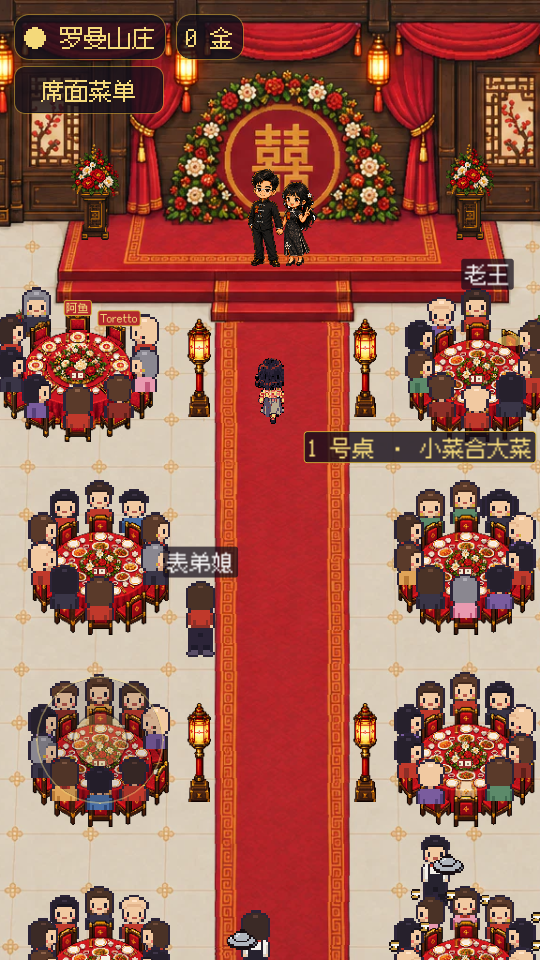
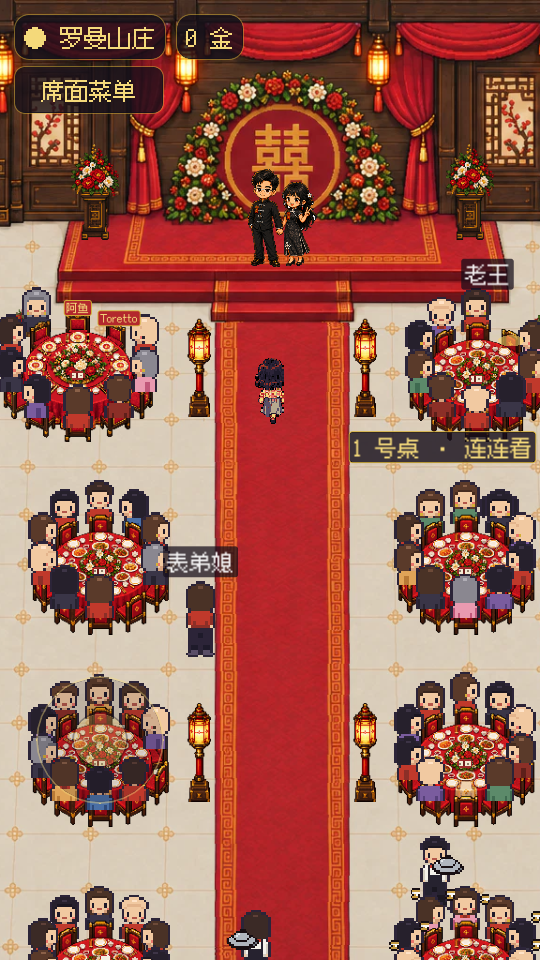
55 桌厅 v8 补：主桌不挂小游戏，54 张普通桌三个游戏各 18 桌；回执补北边 v2 是 v1 原样

diff --git a/godot/tools/layout_55/build_graybox55.py b/godot/tools/layout_55/build_graybox55.py
@@ -430,8 +430,9 @@ def main():
         "rugs": False,        # 桌下不铺地毯（阿鱼 9/28）
         "band_art": False,    # 乐队是底图里的色块，不叠第 44 版那块乐队图
         "sign_mode": "near",  # 认桌（01 定）：自己那桌一直挂牌，走近哪桌亮哪桌，其余不挂
-        # 每桌一个小游戏（01 D 9/30 v8）：55 桌（含主桌）在这三个里分，按北京日期洗，同一天大家一样（game_config.gd daily_plan）
-        "table_games": {"mode": "daily", "games": ["lianliankan", "match3", "g2048"], "tz_hours": 8},
+        # 每桌一个小游戏（01 D 9/30 v8）：54 张普通桌在这三个里分（各 18 桌），按北京日期洗，同一天大家一样（game_config.gd daily_plan）；
+        # 主桌不挂游戏（01 D 9/30：主桌只有阿鱼、Toretto 坐，别人看得到玩不了）
+        "table_games": {"mode": "daily", "games": ["lianliankan", "match3", "g2048"], "skip": ["MAIN"], "tz_hours": 8},
     }
     if art:
         scene["revision"] = "art-v1（GPT 空厅背景 + 5 件零件，摆位 v4）"

diff --git a/godot/回执/55桌v8-回执.md b/godot/回执/55桌v8-回执.md
@@ -25,19 +25,19 @@
 
 ## 3. 每桌一个小游戏
 
-- 55 张桌（含主桌）在连连看、川菜消消乐、小菜合大菜里分：
-  - 三个轮着排满（各 18～19 桌），再按北京日期洗一遍，同一天谁看都一样；
+- 54 张普通桌在连连看、川菜消消乐、小菜合大菜里分，**主桌不挂游戏**（01 D 9/30 定）：
+  - 三个轮着排满（各 18 桌），再按北京日期洗一遍，同一天谁看都一样；
   - 北京日期用 UTC 加 8 小时算，和亲友开席同一个算法。
 - 种子、洗牌用自己写的整数算法，不用引擎的随机数，换手机、换引擎版本算出来一样。
-- 桌牌照写「N 号桌 · 游戏名」（主桌是「主桌 · 游戏名」）。坐下以后底下的「玩·XX」跟着这桌分到的游戏。
+- 桌牌照写「N 号桌 · 游戏名」，主桌只写「主桌」。坐下以后底下的「玩·XX」跟着这桌分到的游戏。
 - 设置在 `tools/layout_55/build_graybox55.py` 的 table_games，生成进 scene.json。第 44 版厅照旧只有 1～6 号桌有游戏。
-- 9/30 这天：主桌 小菜合大菜、T1 小菜合大菜、T2 连连看、T27 连连看、T54 川菜消消乐。
+- 9/30 这天：T1 连连看、T2 小菜合大菜、T27 连连看、T54 小菜合大菜。
 
 ## 验收
 
 - 客户端测试 29 个全过（test_map 照旧只打印地图），桥测试过；导入 grep「Scan thread aborted」0。
 - test_hall_big 新加第 11 节：
-  - 55 桌都有游戏，三个游戏各 18～19 桌；
+  - 54 张普通桌都有游戏、主桌没有，三个游戏各 18 桌；
   - 北京日期边界：UTC 15:59 / 16:00 跨日；
   - 同一天算两遍一样，换一天 43 桌不一样；
   - 桌牌写法；
@@ -56,6 +56,14 @@
    - 阿鱼说「坐不了」多半是这个。要真机上哪桌都能坐，得按 config.js 里写好的「55 桌上线时改这三处」改，再重新部署 enterHall、changeSeat。**部署要阿鱼点头，我没动**，等 01 定。
    - 电脑上的假服务端回 55 张，测试都是在这上面过的。
 2. **北边背景没换，第 4 条也就没出**（见上）。
-3. **主桌也分到了游戏**（「55 桌每桌」照字面做）。主桌只有阿鱼、Toretto 能坐，别人看得到牌子但玩不了。要主桌不挂游戏，说一声就改。
+3. ~~主桌也分到了游戏~~：01 D 9/30 定主桌不挂，已改（见文末补记）。
 4. **跨零点不刷新**：游戏是进厅时按当天分的。人在厅里待过北京零点，要重新进一次厅才换成新一天的分法。
 5. 桌牌变长了：「小菜合大菜」「川菜消消乐」比原来 1 号桌的「连连看」宽，最宽约 262。自己那桌挂在屏幕边上会收进屏幕里，截图里没压到别的牌子。
+
+## 9/30 傍晚补记（01 D 回话后）
+
+- **主桌不挂游戏**：只有 54 张普通桌分，各 18 桌；主桌的牌只写「主桌」。测试、导入 grep 0、两张截图都重跑了。
+- **北边背景还没到**：积木里新出现的 `base_banquet55_north_v2.png` 跟 v1 一字节不差（sha 一样），只是改了名字，不是新图。
+  - 同时来的 `素材图/preview_banquet55_decor_v1.png` 是摆了桌子、桌间装饰的效果预览，不是空背景；乐队台还是比婚礼台靠下。
+  - 第 1、4 条照旧等真正的新背景。
+- 服务端 55 桌部署：01 去问阿鱼，02 没动。
